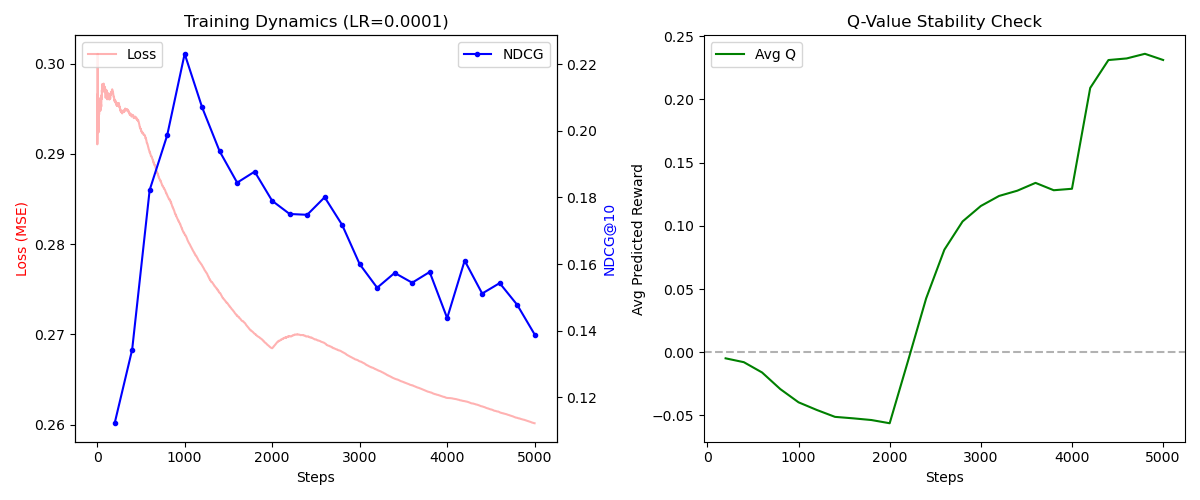
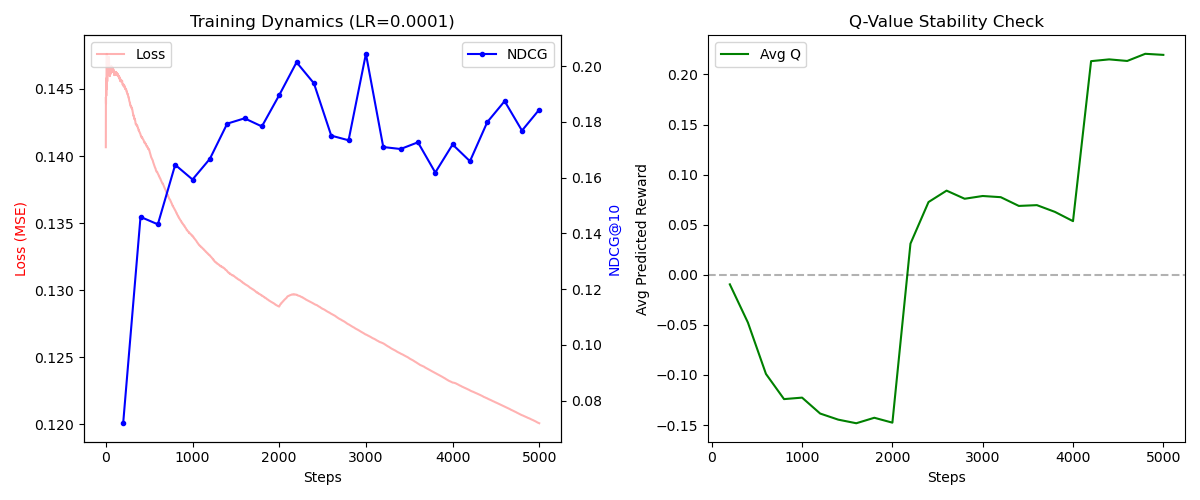
Fix sequential issue: use sliding window method
evaluation: Precision@10: 0.1913 NDCG@10: 0.2044

diff --git a/src/transitions.py b/src/transitions.py
@@ -8,9 +8,10 @@ import pandas as pd
 
 from data_loader import MovieLensLoader
 from data_processor import DatasetPrep
+from collections import deque
 
 '''
-state: average feature vector of all movies the user watched 
+state: flattened vector of the last N movies (use Sliding Window method)
 action: ID of the recommended movie 
 reward: the user's actual rating(normalized), with penalty for recommending seen movie 
 '''
@@ -32,6 +33,7 @@ def build_offline_transitions(
     item_matrix: np.ndarray,
     repeat_penalty: float = 0.0,
     popularity_penalty: float = 0.0,
+    history_window: int = 10  
 ) -> Dict[str, np.ndarray]:
     df = ratings_df.sort_values(["user_key", "timestamp"]).reset_index(drop=True)
 
@@ -48,6 +50,8 @@ def build_offline_transitions(
         pop_norm = np.zeros(item_matrix.shape[0], dtype=np.float32)
 
     dim = item_matrix.shape[1]
+    empty_feat = np.zeros(dim, dtype=np.float32)
+    
     transitions: Dict[str, List] = {
         "state": [],
         "action": [],
@@ -62,26 +66,26 @@ def build_offline_transitions(
 
         if len(movie_keys) < 2:
             continue
-
-        running_sum = np.zeros(dim, dtype=np.float32)
-        count = 0
+        
+ 
+        # deque with a fixed maxlen, the oldest item pushed out when append new item
+        history = deque([empty_feat] * history_window, maxlen=history_window)
         watched = set()
-
+        
         for idx in range(len(movie_keys) - 1):
-            state = running_sum / count if count > 0 else np.zeros(dim, dtype=np.float32)
+            # state = running_sum / count if count > 0 else np.zeros(dim, dtype=np.float32)
+            
+            # preserves sequence
+            # take the history, flatten into 1D vector, sequence:(t-windowSize,....,t-1 )
+            state = np.concatenate(history).astype(np.float32)
 
             action_key = movie_keys[idx]
             rating_val = ratings[idx]
 
-            already_seen = action_key in watched
-            
-            
-            #reward = (rating_val / 5.0) - (repeat_penalty if already_seen else 0.0)
-            
+            already_seen = action_key in watched   
             #use negative rewards for 1&2 rating, force the agent to learn from negative feedback(i.e. recommend bad movie)
             #1 star = -2.0 strong Punishment, 3 stars = 0.0 neutral, 5 Stars = +2 (Strong Reward)
             base_reward = (rating_val - 3.0) / 2.0
-            
             # penalty for recommend seen movies
             r_penalty = repeat_penalty if already_seen else 0.0
             reward = base_reward - r_penalty
@@ -89,17 +93,19 @@ def build_offline_transitions(
             # popularity_penalty
             if popularity_penalty and 0 <= action_key < len(pop_norm):
                 reward = reward - float(popularity_penalty * pop_norm[int(action_key)])
-
+            
+            # Get feature vector for the movie just watched
             if 0 <= action_key < len(item_matrix):
                 movie_vec = item_matrix[action_key]
             else:
-                movie_vec = np.zeros(dim, dtype=np.float32)
-
-            running_sum = running_sum + movie_vec
-            count += 1
+                movie_vec = empty_feat
+                
+            # append movie just watched to the history, remove olest one
+            history.append(movie_vec)
+            
+            next_state = np.concatenate(history).astype(np.float32)
+            
             watched.add(action_key)
-            next_state = running_sum / count
-
             done = idx == len(movie_keys) - 2
 
             transitions["state"].append(state)
@@ -114,6 +120,7 @@ def build_offline_transitions(
             # give it a negative reward (-0.5 = a 2-star rating)
             neg_reward = -0.5 
             # state/next_state is the same (we assume user ignored this recommendation)
+            # window does not slide for rejected items
             transitions["state"].append(state)
             transitions["action"].append(int(neg_action))
             transitions["reward"].append(float(neg_reward))

diff --git a/src/evaluation.py b/src/evaluation.py
@@ -36,7 +36,8 @@ def prepare_evaluation_data(
     data_dir: Path, 
     val_ratio: float, 
     keep_top_n: int, 
-    min_ratings: int
+    min_ratings: int,
+    history_window: int
 ) -> Dict[str, Any]:
     """
     Loads data using settings from Hyperparameters.
@@ -69,7 +70,7 @@ def prepare_evaluation_data(
     
     # Build User State & History (Seen)
     item_matrix, _ = _item_matrix(movie_features)
-    user_state = build_user_state_vectors(train_df, item_matrix)
+    user_state = build_user_state_vectors(train_df, item_matrix, history_window)
     
     seen_train = defaultdict(set)
     for _, row in train_df.iterrows():
@@ -185,15 +186,36 @@ def eval_prcp(
     }
     return results
 
-def build_user_state_vectors(train_df, item_matrix: np.ndarray) -> dict[int, np.ndarray]:
+def build_user_state_vectors(train_df, item_matrix: np.ndarray,history_window: int) -> dict[int, np.ndarray]:
     user_movies = defaultdict(list)
-    for _, row in train_df.iterrows():
+    # Ensure sequential order
+    train_df_sorted = train_df.sort_values(["user_key", "timestamp"])
+    
+    for _, row in train_df_sorted.iterrows():
         user_movies[int(row["user_key"])].append(int(row["movie_key"]))
 
+    feat_dim = item_matrix.shape[1]
+    empty_feat = np.zeros(feat_dim, dtype=np.float32)
+    
     user_state = {}
     for u, movies in user_movies.items():
-        if movies:
-            user_state[u] = item_matrix[movies].mean(axis=0).astype(np.float32)
+        
+        # get the last N movie
+        history_keys = movies[-history_window:]
+        padding_needed = history_window - len(history_keys)
+        
+        vector_stack = []
+        
+        # add padding to front
+        for _ in range(padding_needed):
+            vector_stack.append(empty_feat)
+            
+        # add movie
+        for key in history_keys:
+            vector_stack.append(item_matrix[key])
+            
+        state_vec = np.concatenate(vector_stack).astype(np.float32)
+        user_state[u] = state_vec
     return user_state
 
 def make_dqn_recommender(dqn_model: DQN, user_state, seen_train, movie_ids_by_key, n_actions, device):
@@ -265,7 +287,8 @@ def run_evaluation(hp: Hyperparameters, model_path: Path = None, no_plots: bool 
         data_dir, 
         val_ratio=hp.val_ratio, 
         keep_top_n=hp.keep_top_n, 
-        min_ratings=hp.min_ratings
+        min_ratings=hp.min_ratings,
+        history_window=hp.history_window
     )
     
     # Load Model
@@ -274,7 +297,8 @@ def run_evaluation(hp: Hyperparameters, model_path: Path = None, no_plots: bool 
     if getattr(hp, "use_dueling", False): Net = DuelingDQN
     else: Net = DQN
 
-    dqn = Net(num_actions=data['n_actions'], feature_size=data['feat_dim']).to(device)
+    state_input_dim = data['feat_dim'] * hp.history_window
+    dqn = Net(num_actions=data['n_actions'], feature_size=state_input_dim).to(device)
 
     
     if model_path.exists():

diff --git a/src/env/recommender_env.py b/src/env/recommender_env.py
@@ -8,7 +8,9 @@ from transitions import build_offline_transitions, _item_matrix
 
 
 class RecoEnv:
-    def __init__( self,  data_dir: str = "data/ml-latest-small", val_ratio: float = 0.2,  repeat_penalty: float = 0.0, keep_top_n: int = 1000, popularity_penalty: float = 0.0) -> None:
+    def __init__( self,  data_dir: str = "data/ml-latest-small", val_ratio: float = 0.2,  repeat_penalty: float = 0.0, keep_top_n: int = 1000, 
+                 popularity_penalty: float = 0.0,
+                 history_window: int = 10) -> None:
         loader = MovieLensLoader(data_dir).load_all()
         prep = DatasetPrep(loader)
 
@@ -23,17 +25,23 @@ class RecoEnv:
         item_matrix, feature_names = _item_matrix(movie_features)
         self.item_matrix = item_matrix  # [n_movies, feat_dim]
         self.feature_names = feature_names
-
+        
+        self.history_window = history_window
+        
         # offline transitions
         self.transitions_train = build_offline_transitions(
-            train_df, item_matrix, repeat_penalty=repeat_penalty, popularity_penalty=popularity_penalty
+            train_df, item_matrix, repeat_penalty=repeat_penalty, popularity_penalty=popularity_penalty,
+            history_window = self.history_window
         )
         self.transitions_val = build_offline_transitions(
-            val_df, item_matrix, repeat_penalty=repeat_penalty, popularity_penalty=popularity_penalty
+            val_df, item_matrix, repeat_penalty=repeat_penalty, popularity_penalty=popularity_penalty,
+            history_window = self.history_window
         )
 
 
-        self.state_dim: int = self.transitions_train["state"].shape[1]
+        #Old: self.state_dim: int = self.transitions_train["state"].shape[1]
+        feat_dim = item_matrix.shape[1]
+        self.state_dim = feat_dim * self.history_window
         self.n_actions: int = item_matrix.shape[0]
 
         print(

diff --git a/src/agent/dqn_model.py b/src/agent/dqn_model.py
@@ -2,24 +2,29 @@ import torch
 import torch.nn as nn
 
 class DQN(nn.Module):
-    def __init__(self, num_actions, feature_size, hidden_dim=128, dropout_rate=0.2):
+    def __init__(self, num_actions, feature_size, hidden_dim=256, dropout_rate=0.2):
         super(DQN, self).__init__()
+        
         self.fc1 = nn.Linear(feature_size, hidden_dim)
         self.fc2 = nn.Linear(hidden_dim, hidden_dim//2)
         self.fc3 = nn.Linear(hidden_dim//2, hidden_dim//4)
         
+        # out:Q vals for all items
         self.out = nn.Linear(hidden_dim//4, num_actions)
+        
         self.act = nn.ReLU()
         self.dropout = nn.Dropout(p=dropout_rate)
 
     def forward(self, x):
+        # x shape: [batch_size, feature_size]
+        
         x = self.act(self.fc1(x))
-        x = self.dropout(x) 
+        x = self.dropout(x)
 
         x = self.act(self.fc2(x))
-        x = self.dropout(x)   
+        x = self.dropout(x)
 
         x = self.act(self.fc3(x))
+
         q = self.out(x)
         return q
-    

diff --git a/src/utils/hyperparameters.py b/src/utils/hyperparameters.py
@@ -16,9 +16,12 @@ class Hyperparameters:
         # --- ALGORITHM FLAGS ---
         self.use_ddqn = True  # Set False: standard DQN, True: Double DQN
         self.use_dueling = False  #  Set False: standard DQN OR  Double DQN depend on self.use_ddqn
+        
+        # --- SEQUENTIAL SETTINGS---
+        self.history_window = 10  # In state, use last N movies
 
         # --- NN ARCHITECTURE ---
-        self.hidden_dim = 128     # width first layer 
+        self.hidden_dim = 256     # width first layer 
         self.dropout_rate = 0.2 
         
         # --- PHASE 1: BASE TRAINING ---

diff --git a/src/main.py b/src/main.py
@@ -29,7 +29,8 @@ def main():
         val_ratio=hp.val_ratio, 
         keep_top_n=hp.keep_top_n, 
         repeat_penalty=0.1,      
-        popularity_penalty=0.01
+        popularity_penalty=0.01,
+        history_window = hp.history_window
     )
     
     agent = Agent(env, hp)
@@ -39,7 +40,8 @@ def main():
         data_dir, 
         val_ratio=hp.val_ratio, 
         keep_top_n=hp.keep_top_n, 
-        min_ratings=hp.min_ratings
+        min_ratings=hp.min_ratings,
+        history_window = hp.history_window
     )
     
     # Run Training
